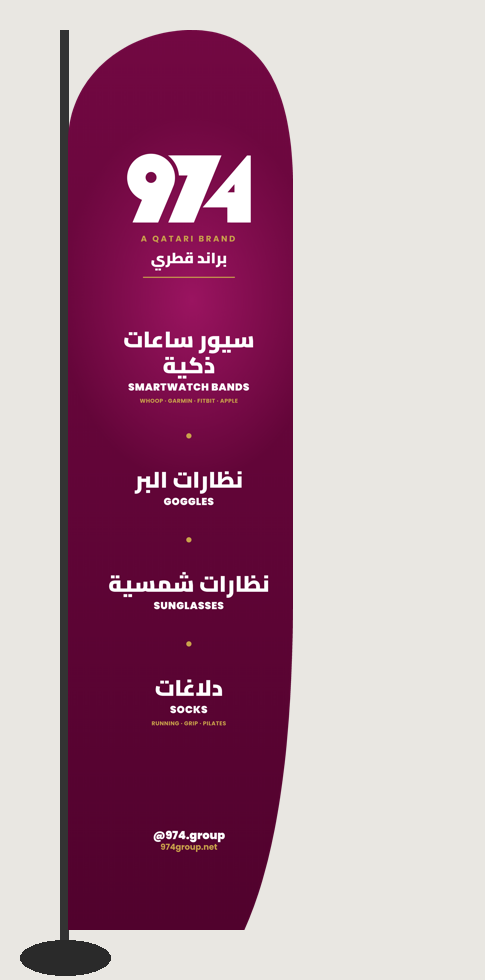
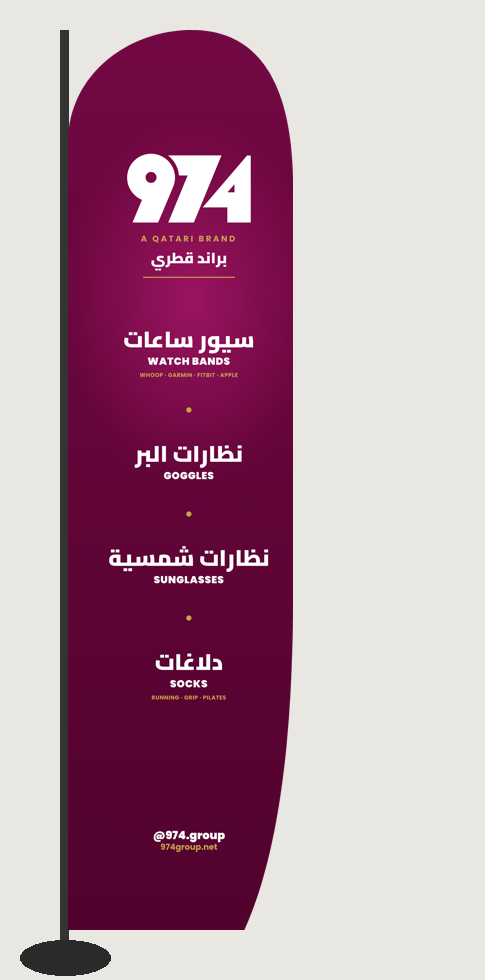
Flag: WATCH BANDS
Claude-Session: https://claude.ai/code/session_01K6HDWNrArsGSJekW1VcEzV

Changed region(s): [[0.2165, 0.551, 0.5567, 0.7653], [0.2784, 0.3367, 0.5258, 0.5204]]

diff --git a/posts/2026-11/expo-booth/flag/flag-preview.html b/posts/2026-11/expo-booth/flag/flag-preview.html
@@ -27,7 +27,7 @@ background:radial-gradient(ellipse 500mm 700mm at 55% 30%,#9A1460 0%,rgba(154,20
 <div class="c tag">A QATARI BRAND</div>
 <div class="c tagar">براند قطري</div>
 <div class="c line"></div>
-<div class="c list"><div class="it"><div class="ar">سيور ساعات ذكية</div><div class="en">SMARTWATCH BANDS</div><div class=sub>WHOOP · GARMIN · FITBIT · APPLE</div></div><div class="dot"></div><div class="it"><div class="ar">نظارات البر</div><div class="en">GOGGLES</div></div><div class="dot"></div><div class="it"><div class="ar">نظارات شمسية</div><div class="en">SUNGLASSES</div></div><div class="dot"></div><div class="it"><div class="ar">دلاغات</div><div class="en">SOCKS</div><div class=sub>RUNNING · GRIP · PILATES</div></div></div>
+<div class="c list"><div class="it"><div class="ar">سيور ساعات</div><div class="en">WATCH BANDS</div><div class=sub>WHOOP · GARMIN · FITBIT · APPLE</div></div><div class="dot"></div><div class="it"><div class="ar">نظارات البر</div><div class="en">GOGGLES</div></div><div class="dot"></div><div class="it"><div class="ar">نظارات شمسية</div><div class="en">SUNGLASSES</div></div><div class="dot"></div><div class="it"><div class="ar">دلاغات</div><div class="en">SOCKS</div><div class=sub>RUNNING · GRIP · PILATES</div></div></div>
 <div class="c foot">@974.group</div>
 <div class="c foot2">974group.net</div>
 </body></html>

diff --git a/posts/2026-11/expo-booth/flag/flag-print.html b/posts/2026-11/expo-booth/flag/flag-print.html
@@ -27,7 +27,7 @@ background:radial-gradient(ellipse 500mm 700mm at 55% 30%,#9A1460 0%,rgba(154,20
 <div class="c tag">A QATARI BRAND</div>
 <div class="c tagar">براند قطري</div>
 <div class="c line"></div>
-<div class="c list"><div class="it"><div class="ar">سيور ساعات ذكية</div><div class="en">SMARTWATCH BANDS</div><div class=sub>WHOOP · GARMIN · FITBIT · APPLE</div></div><div class="dot"></div><div class="it"><div class="ar">نظارات البر</div><div class="en">GOGGLES</div></div><div class="dot"></div><div class="it"><div class="ar">نظارات شمسية</div><div class="en">SUNGLASSES</div></div><div class="dot"></div><div class="it"><div class="ar">دلاغات</div><div class="en">SOCKS</div><div class=sub>RUNNING · GRIP · PILATES</div></div></div>
+<div class="c list"><div class="it"><div class="ar">سيور ساعات</div><div class="en">WATCH BANDS</div><div class=sub>WHOOP · GARMIN · FITBIT · APPLE</div></div><div class="dot"></div><div class="it"><div class="ar">نظارات البر</div><div class="en">GOGGLES</div></div><div class="dot"></div><div class="it"><div class="ar">نظارات شمسية</div><div class="en">SUNGLASSES</div></div><div class="dot"></div><div class="it"><div class="ar">دلاغات</div><div class="en">SOCKS</div><div class=sub>RUNNING · GRIP · PILATES</div></div></div>
 <div class="c foot">@974.group</div>
 <div class="c foot2">974group.net</div>
 </body></html>

diff --git a/posts/2026-11/expo-booth/flag/gen.py b/posts/2026-11/expo-booth/flag/gen.py
@@ -16,7 +16,7 @@ W, H = 600, 2400
 k = 96 / 25.4
 TEAR = "path('" + ' '.join(t if t.isalpha() else f'{float(t)*k:.1f}' for t in f'M 0 {H} L 0 300 C 0 120 160 0 330 0 C 520 0 {W} 160 {W} 420 L {W} 1500 C {W} 1900 560 2200 470 {H} Z'.split()) + "')"
 ITEMS = [
-    (R + 'full-range/cut/w-sil.png', 'SMARTWATCH BANDS', 'سيور ساعات ذكية', 'WHOOP · GARMIN · FITBIT · APPLE', 185),
+    (R + 'full-range/cut/w-sil.png', 'WATCH BANDS', 'سيور ساعات', 'WHOOP · GARMIN · FITBIT · APPLE', 185),
     (R + 'summer-goggles/cut/red.png', 'GOGGLES', 'نظارات البر', '', 300),
     (R + 'sunglasses/cut/lusail-hero.png', 'SUNGLASSES', 'نظارات شمسية', '', 285),
     (R + 'full-range/cut/sock-white.png', 'SOCKS', 'دلاغات', 'RUNNING · GRIP · PILATES', 115),
